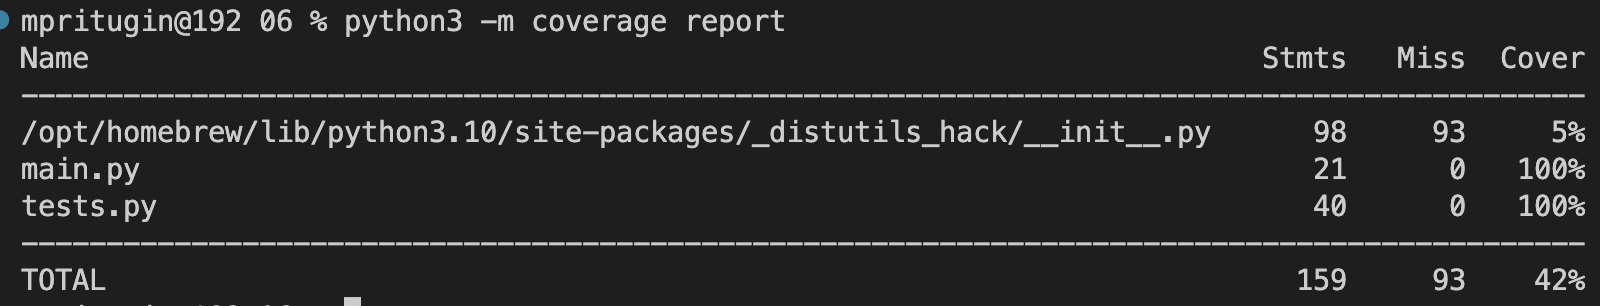
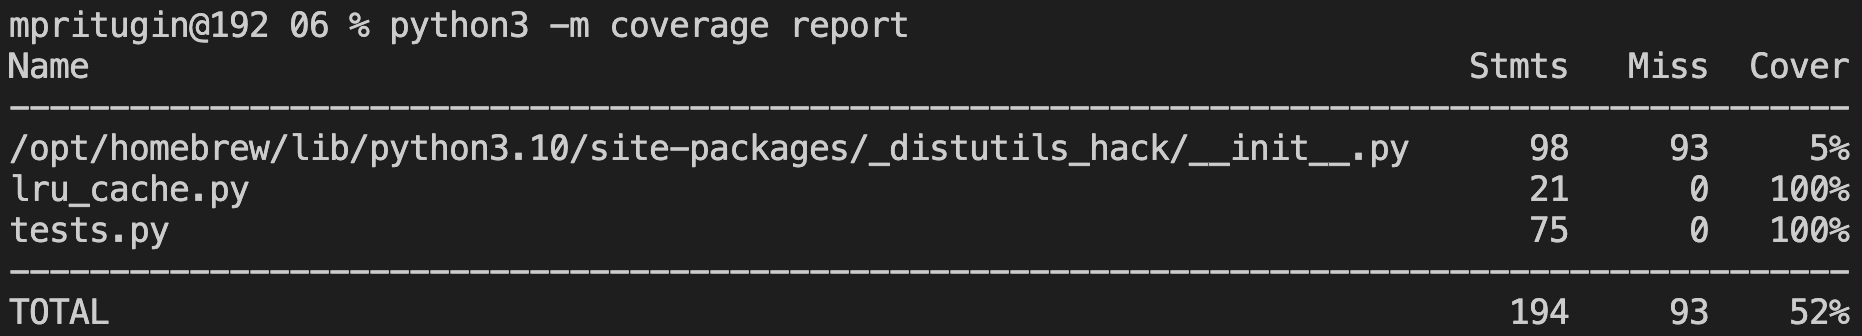
Fixed name + added new tests

diff --git a/06/tests.py b/06/tests.py
@@ -1,5 +1,5 @@
 import unittest
-from main import LRUCache
+from lru_cache import LRUCache
 
 
 class TestLRUCache(unittest.TestCase):
@@ -11,6 +11,41 @@ class TestLRUCache(unittest.TestCase):
         value = cache.get("k1")
 
         self.assertEqual(value, "val1")
+
+    def test_size_one(self):
+        cache = LRUCache(1)
+
+        cache.set("k1", "val1")
+
+        value = cache.get("k1")
+
+        self.assertEqual(value, "val1")
+        self.assertIsNone(cache.get("k2"))
+
+        cache.set("k2", "val2")
+        self.assertIsNone(cache.get("k1"))
+        self.assertEqual(cache.get("k2"), "val2")
+
+    def test_change_exist_key(self):
+        cache = LRUCache(2)
+
+        cache.set("k1", "val1")
+        cache.set("k2", "val2")
+        cache.set("k3", "val3")
+        # exist key
+        cache.set("k3", "val1_new")
+
+        self.assertEqual(cache.get("k3"), "val1_new")
+        self.assertEqual(cache.get("k2"), "val2")
+        self.assertIsNone(cache.get("k1"))
+
+        cache.set("k3", "val1_new2")
+        cache.set("k4", "val4")
+
+        self.assertEqual(cache.get("k3"), "val1_new2")
+        self.assertEqual(cache.get("k4"), "val4")
+        self.assertIsNone(cache.get("k1"))
+        self.assertIsNone(cache.get("k2"))
 
     def test_get_none(self):
         cache = LRUCache(2)

diff --git a/06/README.md b/06/README.md
@@ -12,12 +12,12 @@ python3 -m coverage report
 
 #### Проверка pylint
 ```bash
-pylint main.py --disable=missing-docstring
+pylint lru_cache.py --disable=missing-docstring
 pylint tests.py --disable=missing-docstring
 ```
 
 #### Проверка flake8
 ```bash
-flake8 main.py
+flake8 lru_cache.py
 flake8 tests.py
 ```
